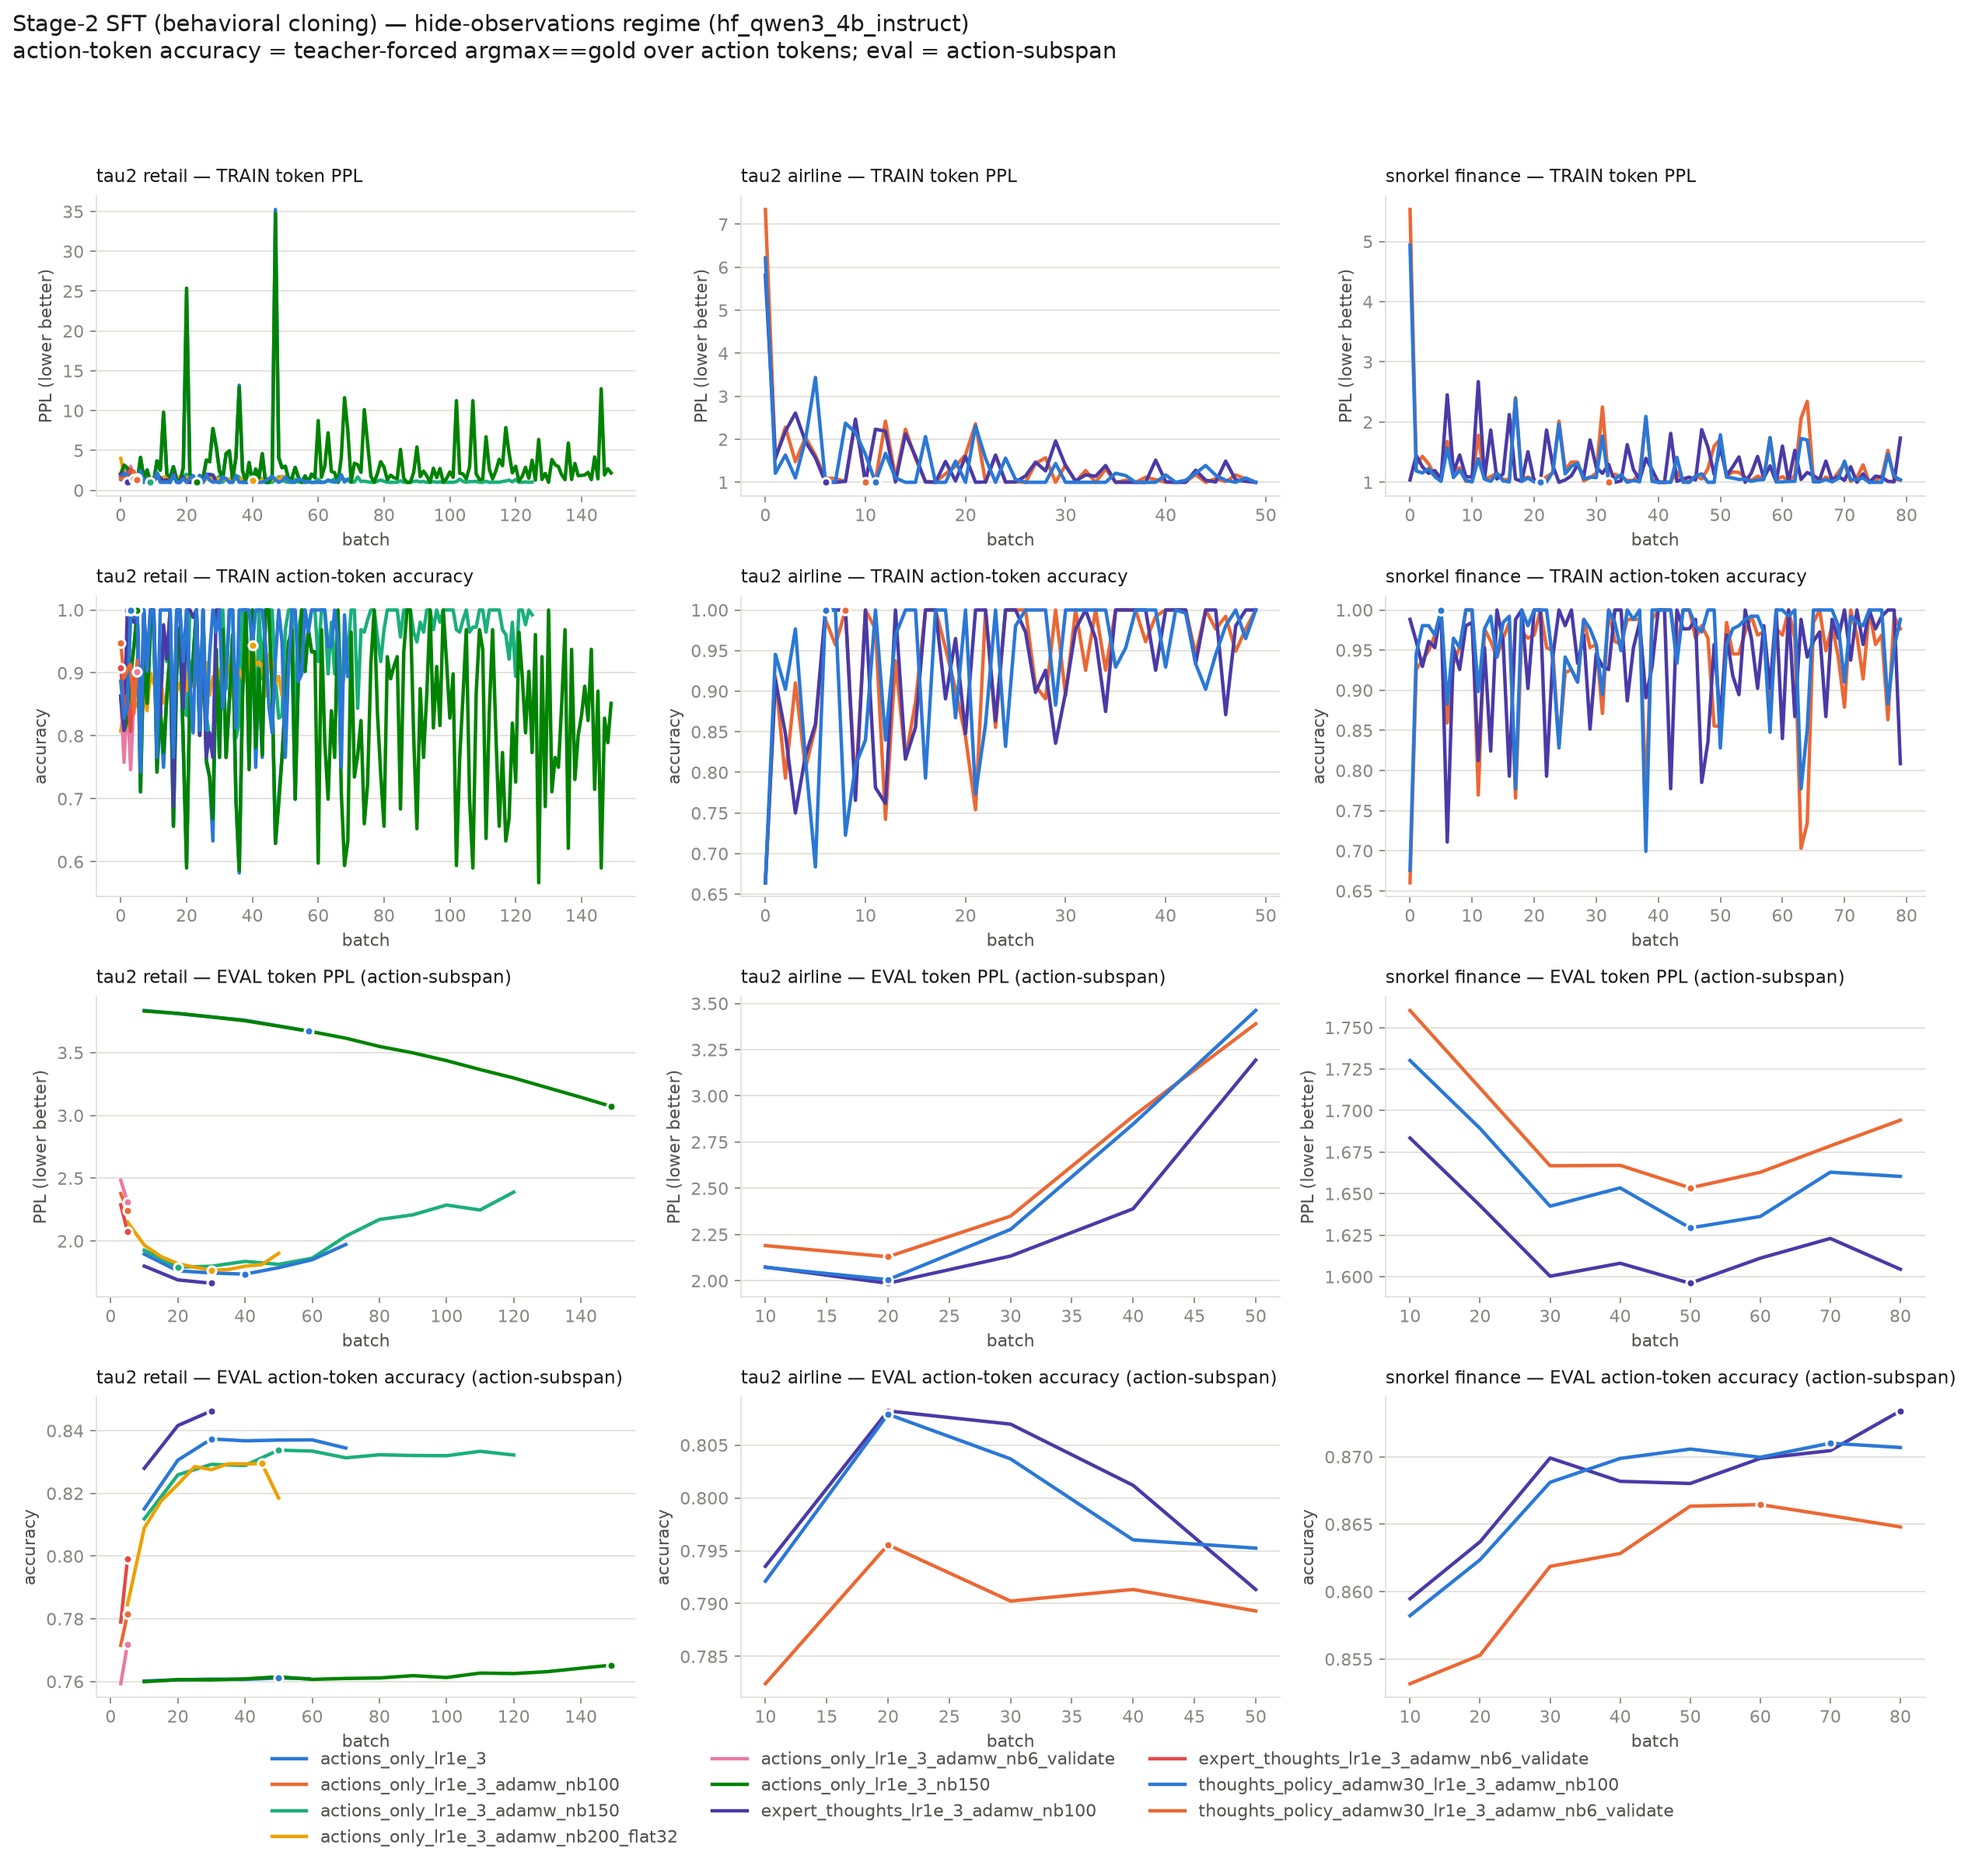
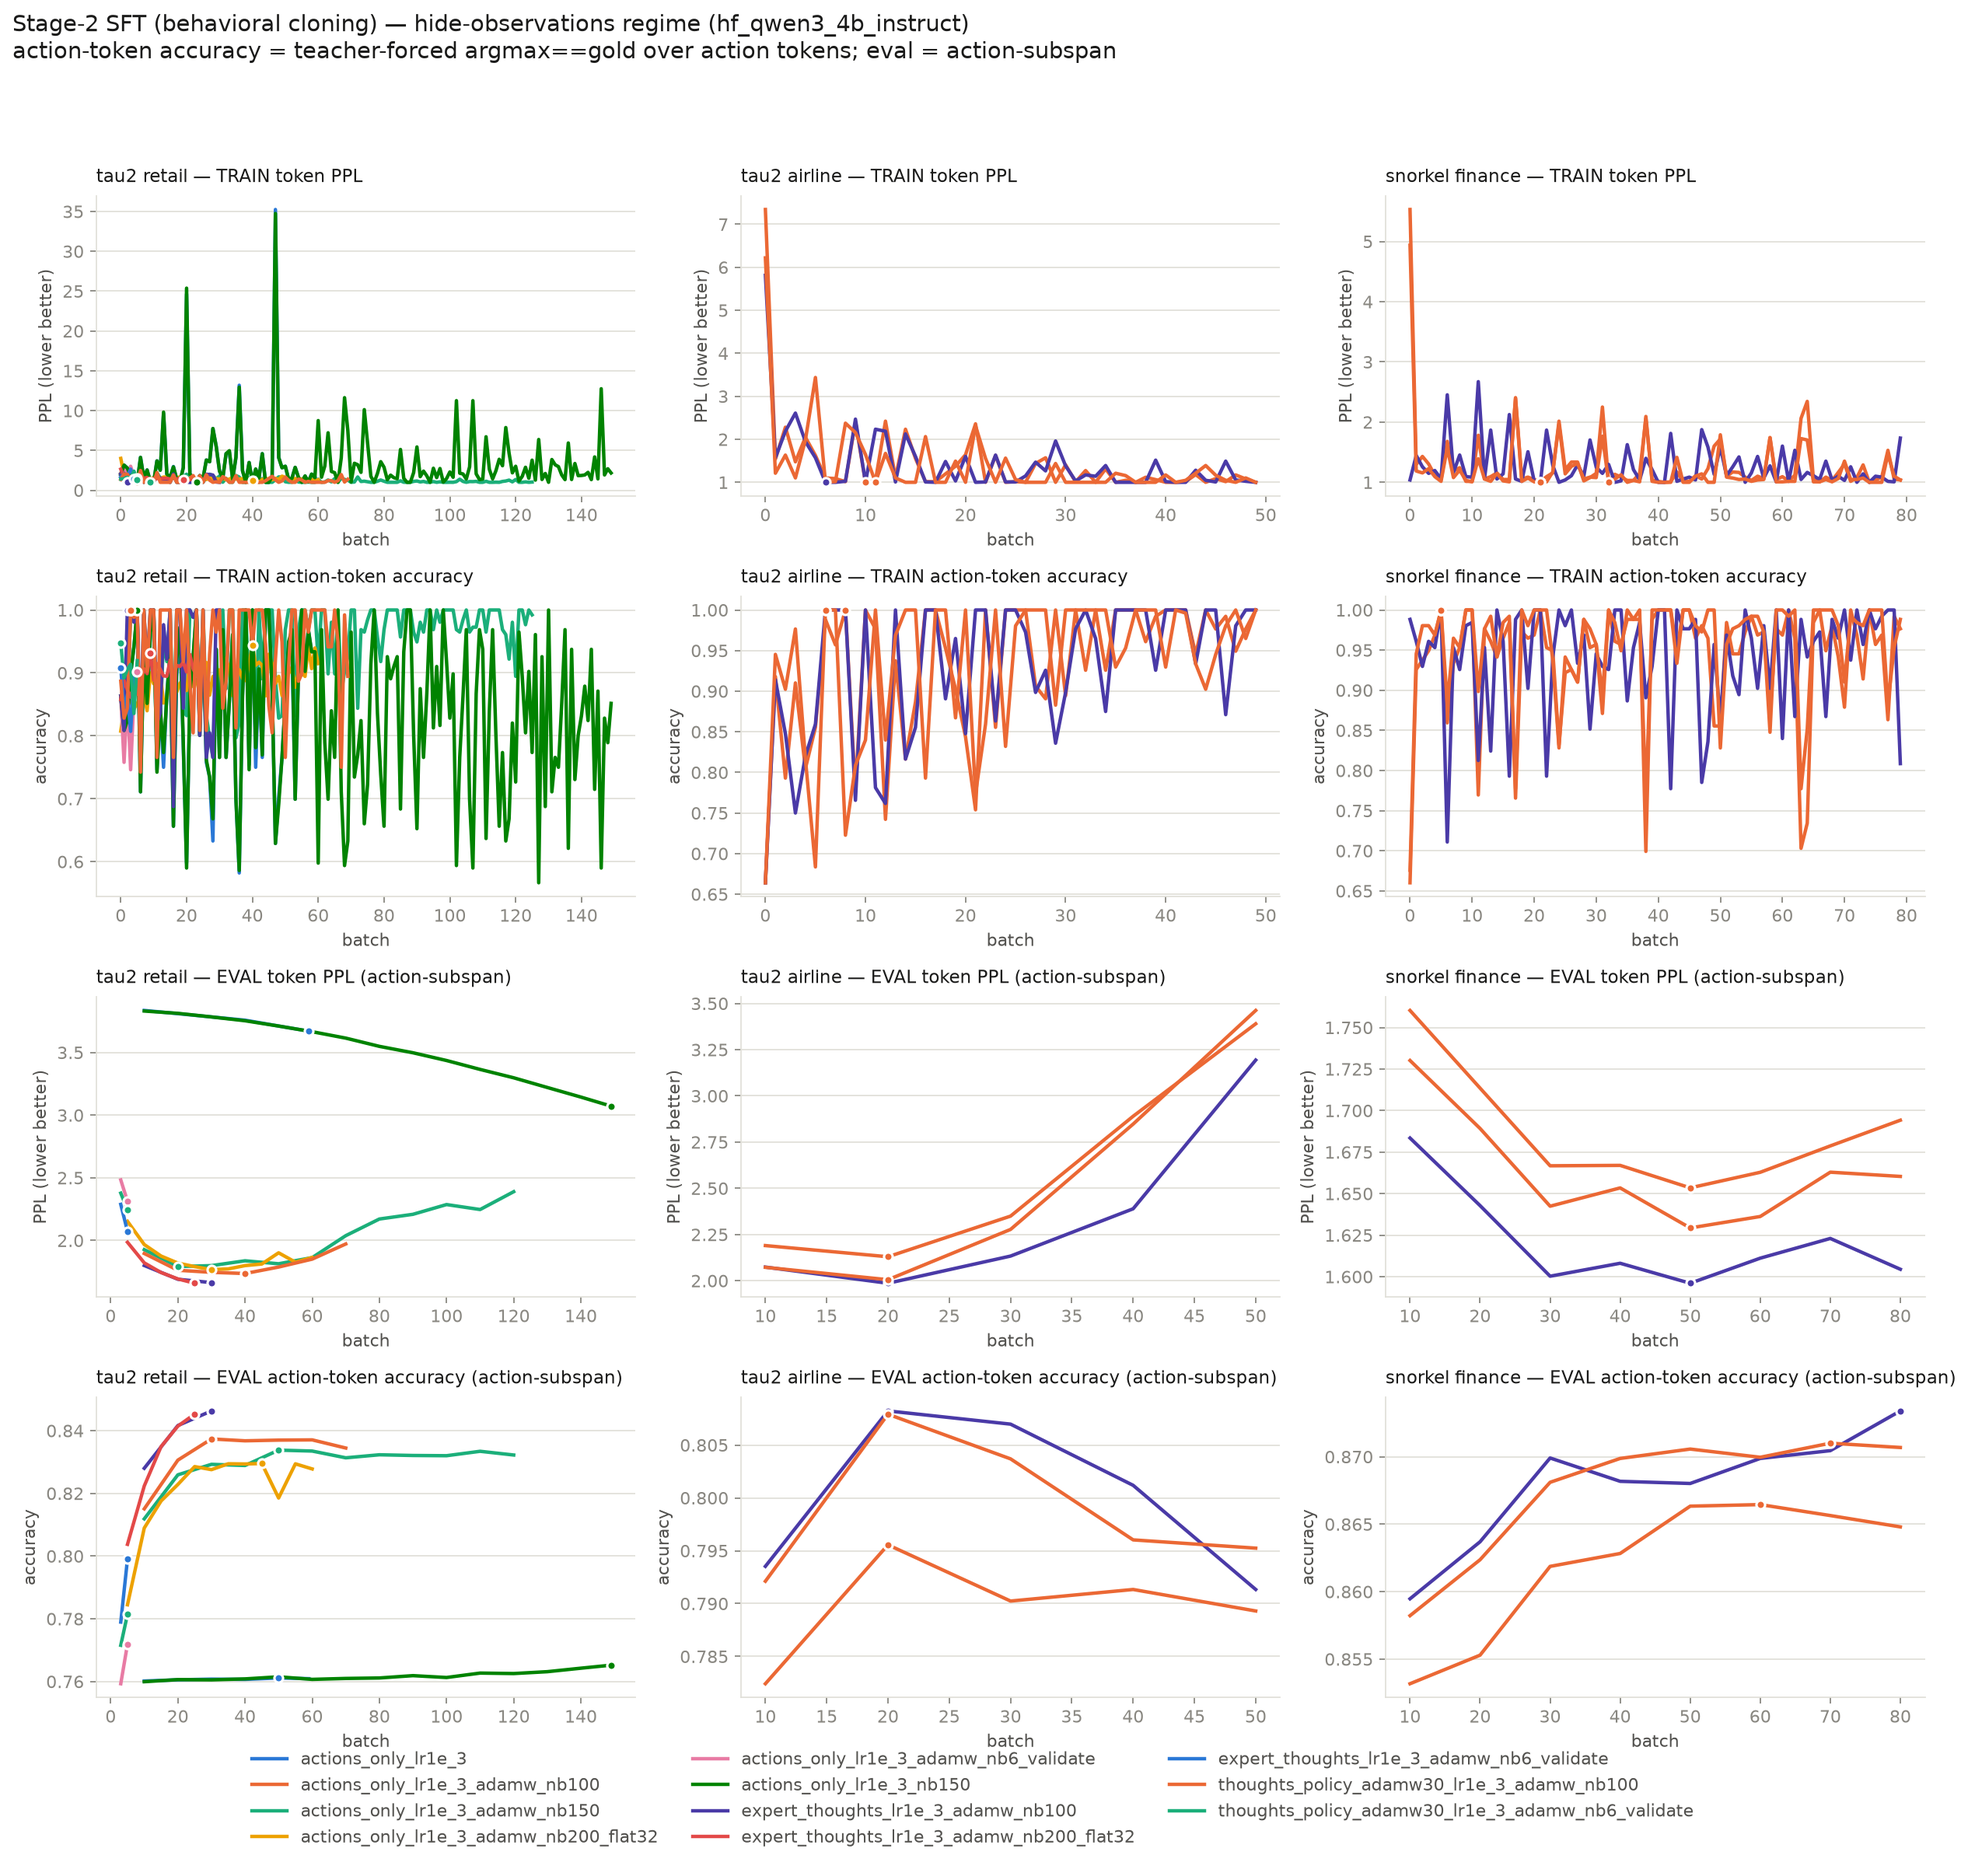
auto: SFT LR sweep results snapshot

diff --git a/notes/cc-5.0-sft-lr-investigation.md b/notes/cc-5.0-sft-lr-investigation.md
@@ -364,12 +364,13 @@ arm                                                  reg     b   eval ppl first-
 ----------------------------------------------------------------------------------------------------------------------
 retail/actions_only_lr1e_3_adamw_nb100               hide    3         (no evals yet)
 retail/actions_only_lr1e_3_adamw_nb150               hide  125     1.9265 ->   2.3890 -24.01%  0.8322        1.0312  <running>
-retail/actions_only_lr1e_3_adamw_nb200_flat32        hide   50     2.1524 ->   1.9012  11.67%  0.8185        1.6057  <running>
+retail/actions_only_lr1e_3_adamw_nb200_flat32        hide   60     2.1524 ->   1.8642  13.39%  0.8278        1.3262  <running>
 retail/actions_only_lr1e_3_adamw_nb6_validate        hide    5     2.4827 ->   2.3125   6.86%  0.7719        1.5400
 retail/actions_only_lr1e_3                           hide   59     3.8355 ->   3.6702   4.31%  0.7609        1.6094
 retail/actions_only_lr1e_3_nb150                     hide  149     3.8307 ->   3.0719  19.81%  0.7652        2.1719
 retail/expert_thoughts_lr1e_3_adamw_nb100            hide   60     1.8014 ->   1.7078   5.20%  0.8487        1.0000  <running>
 retail/expert_thoughts_lr1e_3_adamw_nb100            hide   30     1.7999 ->   1.6634   7.58%  0.8463        1.0000  <running>
+retail/expert_thoughts_lr1e_3_adamw_nb200_flat32     hide   25     1.9852 ->   1.6583  16.47%  0.8453        1.3181  <running>
 retail/expert_thoughts_lr1e_3_adamw_nb6_validate     hide    5     2.2879 ->   2.0729   9.40%  0.7990        1.4971
 retail/thoughts_policy_adamw30_lr1e_3_adamw_nb100    hide   70     1.8959 ->   1.9718  -4.00%  0.8345        1.3828  <running>
 retail/thoughts_policy_adamw30_lr1e_3_adamw_nb6_validate hide    5     2.3775 ->   2.2449   5.57%  0.7814        1.3506
@@ -380,9 +381,9 @@ snorkel_finance_split/actions_only_lr1e_3_adamw_nb100 hide   80     1.7603 ->   
 snorkel_finance_split/expert_thoughts_lr1e_3_adamw_nb100 hide   80     1.6835 ->   1.6045   4.69%  0.8734        1.7344  <running>
 snorkel_finance_split/thoughts_policy_adamw30_lr1e_3_adamw_nb100 hide   80     1.7302 ->   1.6604   4.03%  0.8707        1.0391  <running>
 
-5/16 arms complete   (Δ% = held-out action-subspan PPL improvement, higher is better)
+5/17 arms complete   (Δ% = held-out action-subspan PPL improvement, higher is better)
 ```
-_last refreshed: 2026-08-30 18:40_
+_last refreshed: 2026-08-30 19:00_
 <!--/RESULTS-->
 
 ## Infrastructure

diff --git a/notes/cc-3.0-retail_sft_results.md b/notes/cc-3.0-retail_sft_results.md
@@ -21,7 +21,7 @@ for wordiness rather than for mispredicting the action, which inverts the rankin
 | thoughts_base | full | 2.9999 | 0.8035 | 30 | 3.4093 | 0.7717 | 59 | 0.6225 |
 | actions_only_lr1e_3_adamw_nb100 | hide | — | — | — | — | — | — | 0.0601 |
 | actions_only_lr1e_3_adamw_nb150 | hide | 1.7915 | 0.8259 | 20 | 1.7915 | 0.8259 | 20 | 0.0282 |
-| actions_only_lr1e_3_adamw_nb200_flat32 | hide | 1.7670 | 0.8276 | 30 | — | — | — | 0.4271 |
+| actions_only_lr1e_3_adamw_nb200_flat32 | hide | 1.7670 | 0.8276 | 30 | — | — | — | 0.2589 |
 | actions_only_lr1e_3_adamw_nb6_validate | hide | 2.3125 | 0.7719 | 5 | — | — | — | 0.3685 |
 | actions_only_lr1e_3 | hide | 3.6702 | 0.7609 | 59 | 3.6702 | 0.7609 | 59 | 0.4756 |
 | actions_only_lr1e_3_nb150 | hide | 3.0719 | 0.7652 | 149 | 3.0719 | 0.7652 | 149 | 0.7723 |
@@ -31,6 +31,7 @@ for wordiness rather than for mispredicting the action, which inverts the rankin
 | expert_thoughts_all_lr3e_3_nb150_fixeval | hide | 2.1192 | 0.7947 | 149 | 3.1807 | 0.6974 | 149 | 1.3447 |
 | expert_thoughts_lr1e_3_adamw_nb100 | hide | 1.6660 | 0.8483 | 30 | 2.5258 | 0.7396 | 30 | 0.0016 |
 | expert_thoughts_lr1e_3_adamw_nb100 | hide | 1.6634 | 0.8463 | 30 | 2.5272 | 0.7399 | 30 | 0.0016 |
+| expert_thoughts_lr1e_3_adamw_nb200_flat32 | hide | 1.6583 | 0.8453 | 25 | — | — | — | 0.4541 |
 | expert_thoughts_lr1e_3_adamw_nb6_validate | hide | 2.0729 | 0.7990 | 5 | — | — | — | 0.4444 |
 | expert_thoughts_lr3e_3_nb150 | hide | 2.1071 | 0.7973 | 149 | 3.2141 | 0.6958 | 149 | 0.5808 |
 | thoughts_base_last | hide | 3.1928 | 0.7784 | 59 | 3.6738 | 0.7401 | 59 | 0.9956 |
@@ -72,6 +73,7 @@ that saved step:
 | expert_thoughts_all_lr3e_3_nb150_fixeval | hide | 2.1192 | 0.7947 |
 | expert_thoughts_lr1e_3_adamw_nb100 | hide | 1.6660 | 0.8483 |
 | expert_thoughts_lr1e_3_adamw_nb100 | hide | 1.6634 | 0.8463 |
+| expert_thoughts_lr1e_3_adamw_nb200_flat32 | hide | — | — |
 | expert_thoughts_lr1e_3_adamw_nb6_validate | hide | — | — |
 | expert_thoughts_lr3e_3_nb150 | hide | 2.1071 | 0.7973 |
 | thoughts_base_last | hide | 3.1928 | 0.7784 |
